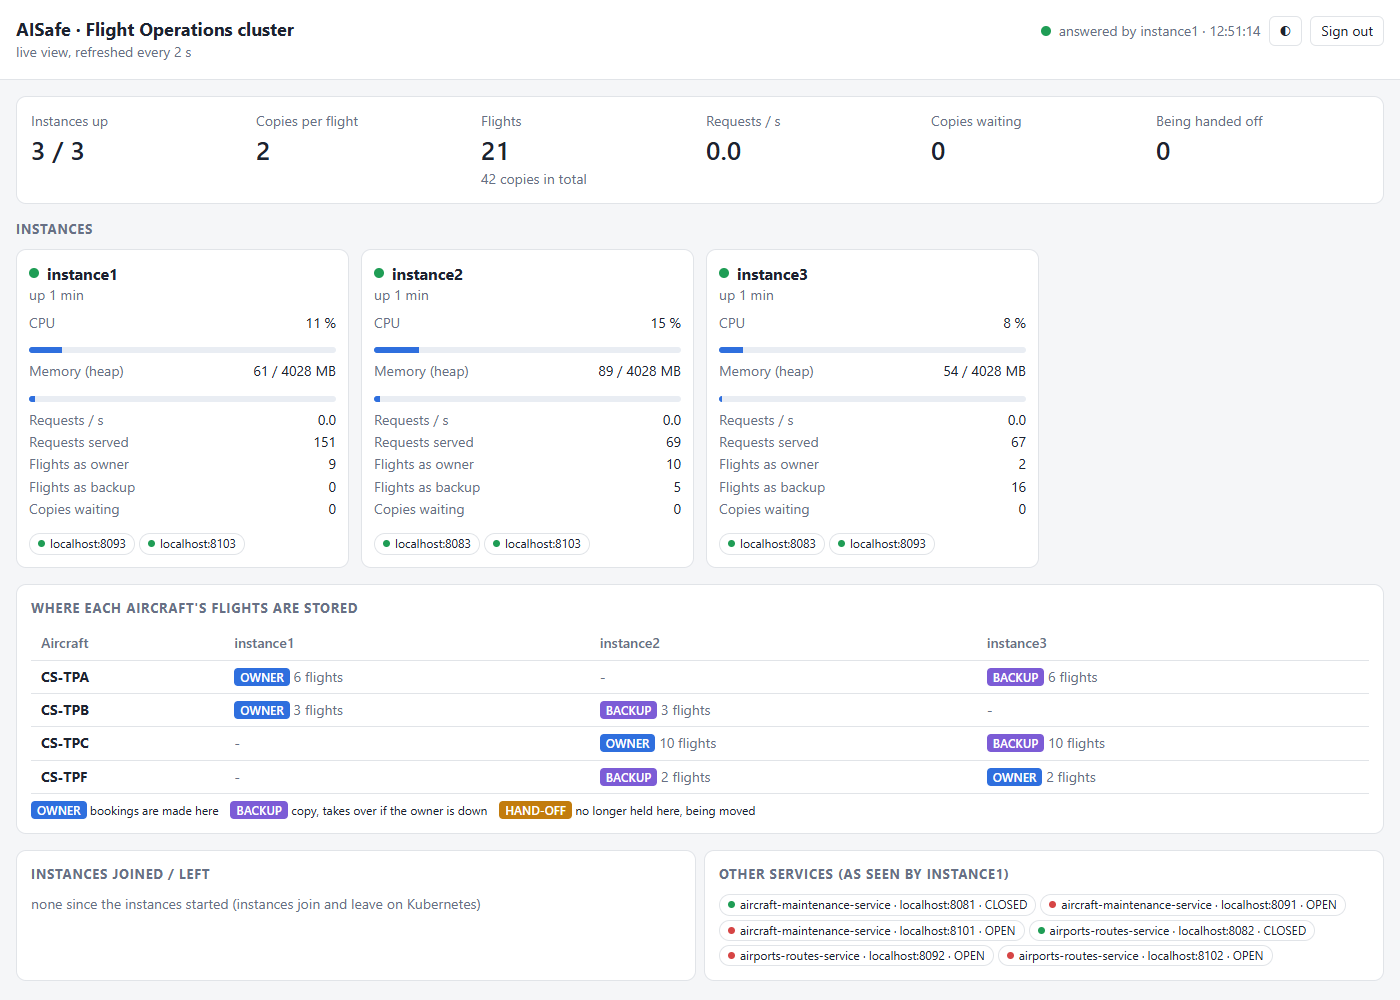
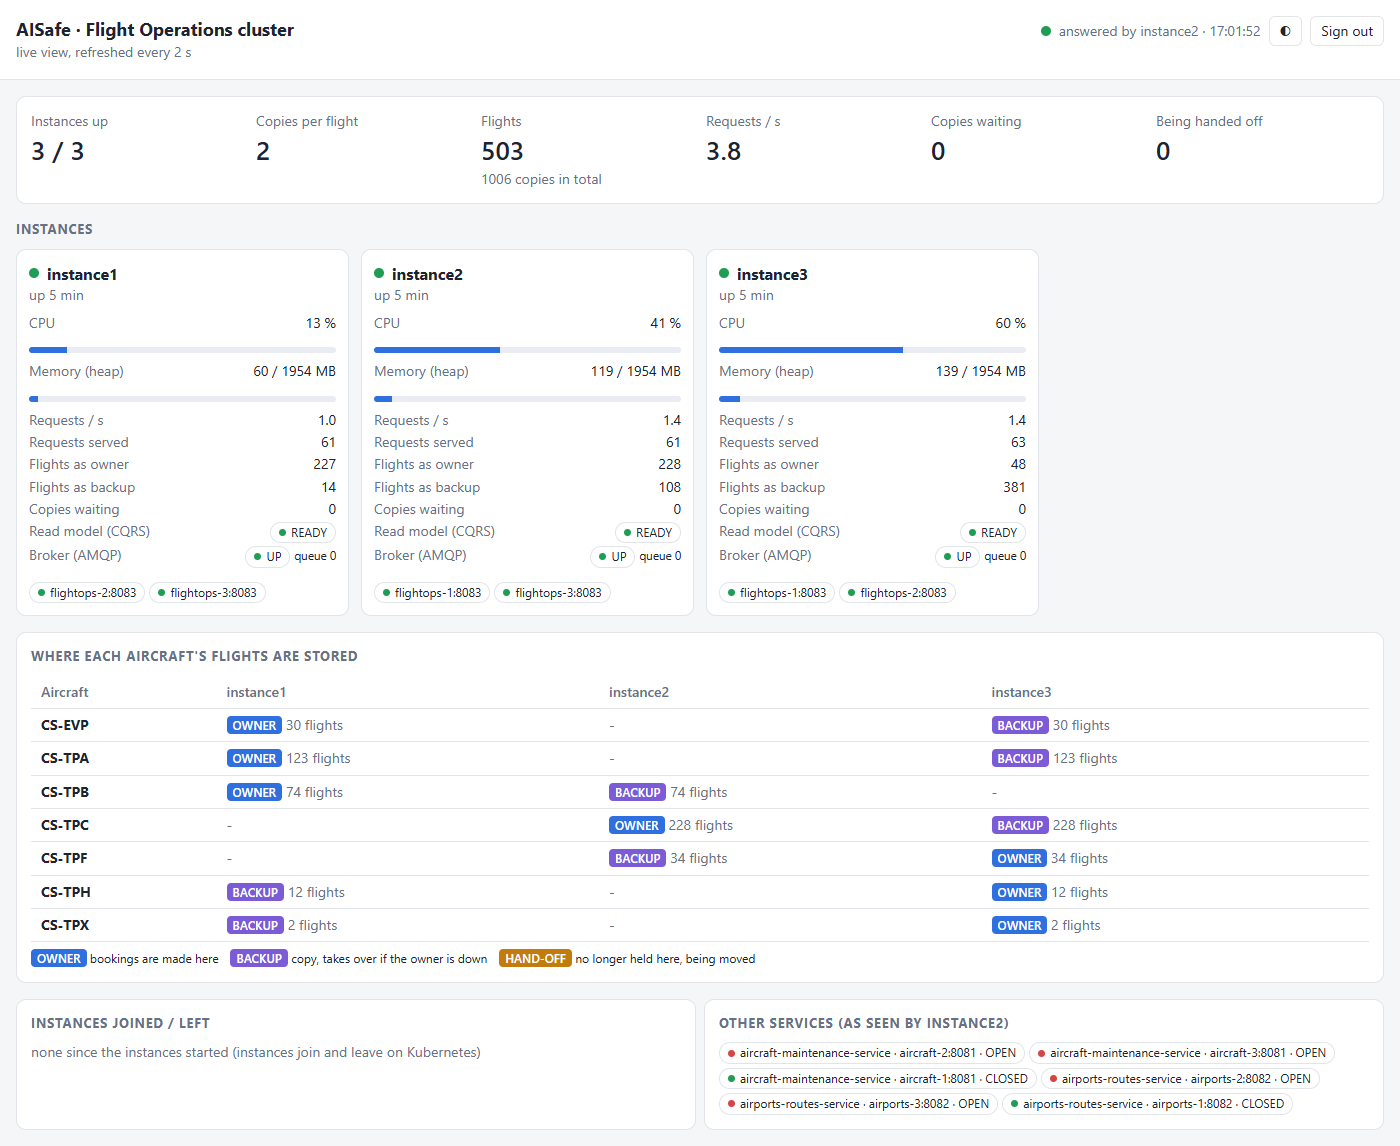
Cancel and complete in the C4 views, A2 screenshots, folder 17 waits for the projection
Cancel and complete are applied on the first copy reached, not only on the owner. The dashboard and Postman screenshots were still from Assignment 1.

diff --git a/docs/c4-model.md b/docs/c4-model.md
@@ -87,11 +87,13 @@ that keep the read model and the local copies up to date.
 
 ![C4 Level 3a - Components: requests](c4/3a-components-requests.png)
 
-* **Commands** (`POST`, `PATCH`) go to `FlightCommandService`, which asks `Cluster` who owns the aircraft. If it is
-  this instance, `LocalBookingService` checks the business rules (with the local copies of the other services'
-  data), locks the aircraft and saves, in one transaction, the flight, its replication task and its event;
-  otherwise the command is forwarded to the owner (diagram 5). On a query instance, commands are refused with `405`
-  before they reach the API.
+* **Commands** (`POST`, `PATCH`) go to `FlightCommandService`. For a booking it asks `Cluster` who owns the
+  aircraft. If it is this instance, `LocalBookingService` checks the business rules (with the local copies of the
+  other services' data), locks the aircraft and saves, in one transaction, the flight, its replication task and its
+  event; otherwise the booking is forwarded to the owner (diagram 5). A cancel or a completion is applied on this
+  instance when it holds a copy of the flight (owner or backup), and forwarded to a holder otherwise; replication
+  brings the change to the other copy. On a query instance, commands are refused with `405` before they reach the
+  API.
 * **Queries** (`GET`) go to `FlightQueries` and the report services (utilization, fuel efficiency, unicorns), which
   answer from the **read model** while it is `READY`: one local MongoDB query, no peer involved.
 * When the read model is not `READY`, or the client asks for `X-Read-Side: write-side`, the query takes the
@@ -291,9 +293,9 @@ Postman collection, or the Kubernetes test in [architecture.md](architecture.md)
 
 ![CQRS](diagrams/8-cqrs.png)
 
-A command changes the write database of the aircraft's owner; a query reads the instance's own read database, which
-holds every flight of the cluster. The two meet only through events: the projection after the commit, the broker,
-and the periodic sync.
+A command changes the write database of an instance that holds the aircraft (the owner for a booking, either copy
+for a cancel or a completion); a query reads the instance's own read database, which holds every flight of the
+cluster. The two meet only through events: the projection after the commit, the broker, and the periodic sync.
 
 ### An event reaches every consumer (P2 p.2)
 

diff --git a/README.md b/README.md
@@ -78,7 +78,8 @@ port and profile: [docs/running.md](docs/running.md). API reference: Swagger UI 
 ## Screenshots
 
 **Dashboard, whole system** (`/dashboard`, 3 instances with the real aircraft and airports/routes services; one
-instance of each other service was running, so their other two instances show `OPEN`):
+instance of each other service was running, so their other two instances show `OPEN`). Each instance card shows
+its read model (CQRS, `READY`) and its broker connection (AMQP, `UP`, messages waiting in its queue):
 
 ![Dashboard with the whole system](docs/screenshots/dashboard-whole-system.png)
 
@@ -89,7 +90,8 @@ instance of each other service was running, so their other two instances show `O
 
 ![kubectl: pods, auto-scaler and services](docs/screenshots/kubernetes-pods.png)
 
-**Postman collection against the whole system** (newman; folder 10 and the summary):
+**Postman collection against the whole system** with the query instances (newman, 2026-11-22; folder 10 and the
+summary: 278 assertions, none failed):
 
 ![Postman run against the whole system](docs/screenshots/postman-whole-system.png)
 

diff --git a/docs/testing.md b/docs/testing.md
@@ -72,6 +72,7 @@ Last runs (2026-11-22, the current versions of the three services):
 | Stub mode, `./scripts/run-local.sh --stub --tls --queries 2` (folder 17 included) | 289 | 0 |
 | Whole system, `docker compose up` | 253 | 0 |
 | Whole system with `--profile queries`, folders 00 and 17 | 37 | 0 |
+| Whole system with `--profile queries`, one instance of each other service, whole collection | 278 | 0 |
 | Whole system, folder 11 through `./scripts/test-failures.sh` (phases 11a to 11g) | 71 | 0 |
 
 The stub run has no request errors (folder 03 asks instance 1 whether instance 2 is up, instead of calling the
